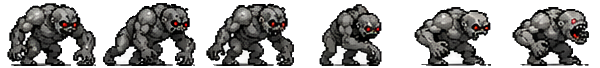
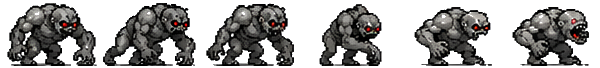
Fix enemy sprites: facing, golem transparency, reaper crop
- Enemies face the approaching player: the golems/reaper/mage art faces
  +x (faceRight true), only the dragon faces -x.
- Golems: key out ALL near-white (not just border-connected) so the
  enclosed background between their legs is transparent.
- Reaper: widen the crop (the figure spilled past the dense row band) and
  skip the left header label; bump its draw scale.

diff --git a/src/game/enemies.ts b/src/game/enemies.ts
@@ -18,10 +18,11 @@ interface EnemySpriteCfg {
 }
 
 const ENEMY_SPRITES = {
-  walker: { id: "walker", fw: 102, fh: 68, fps: 7, move: [0, 1, 2, 3], faceRight: false, scale: 1.25 },
-  shooter: { id: "shooter", fw: 100, fh: 68, fps: 6, move: [0, 1, 2, 3], attack: [4, 5], faceRight: false, scale: 1.25 },
-  flyer: { id: "flyer", fw: 118, fh: 67, fps: 7, move: [0, 1, 2, 3, 4], faceRight: false, scale: 1.3 },
-  brute: { id: "brute", fw: 192, fh: 227, fps: 1, move: [0], faceRight: false, scale: 1.35 },
+  // The golems / reaper / mage art faces +x; the dragon faces -x.
+  walker: { id: "walker", fw: 102, fh: 68, fps: 7, move: [0, 1, 2, 3], faceRight: true, scale: 1.3 },
+  shooter: { id: "shooter", fw: 100, fh: 68, fps: 6, move: [0, 1, 2, 3], attack: [4, 5], faceRight: true, scale: 1.3 },
+  flyer: { id: "flyer", fw: 114, fh: 83, fps: 7, move: [0, 1, 2, 3, 4], faceRight: true, scale: 1.7 },
+  brute: { id: "brute", fw: 192, fh: 227, fps: 1, move: [0], faceRight: true, scale: 1.4 },
   boss: { id: "boss", fw: 424, fh: 410, fps: 1, move: [0], faceRight: false, scale: 1.2 },
 } satisfies Record<string, EnemySpriteCfg>;
 
